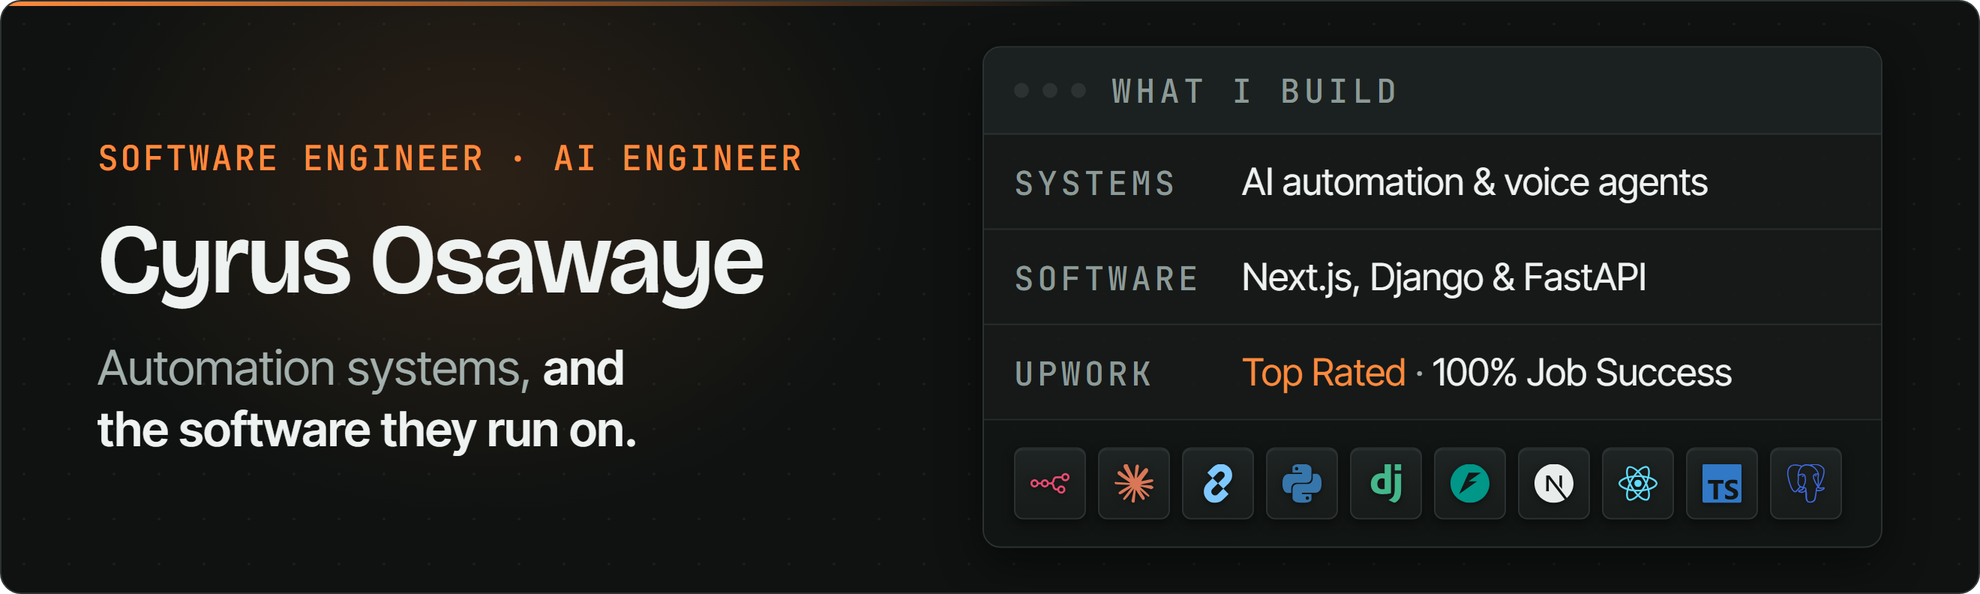
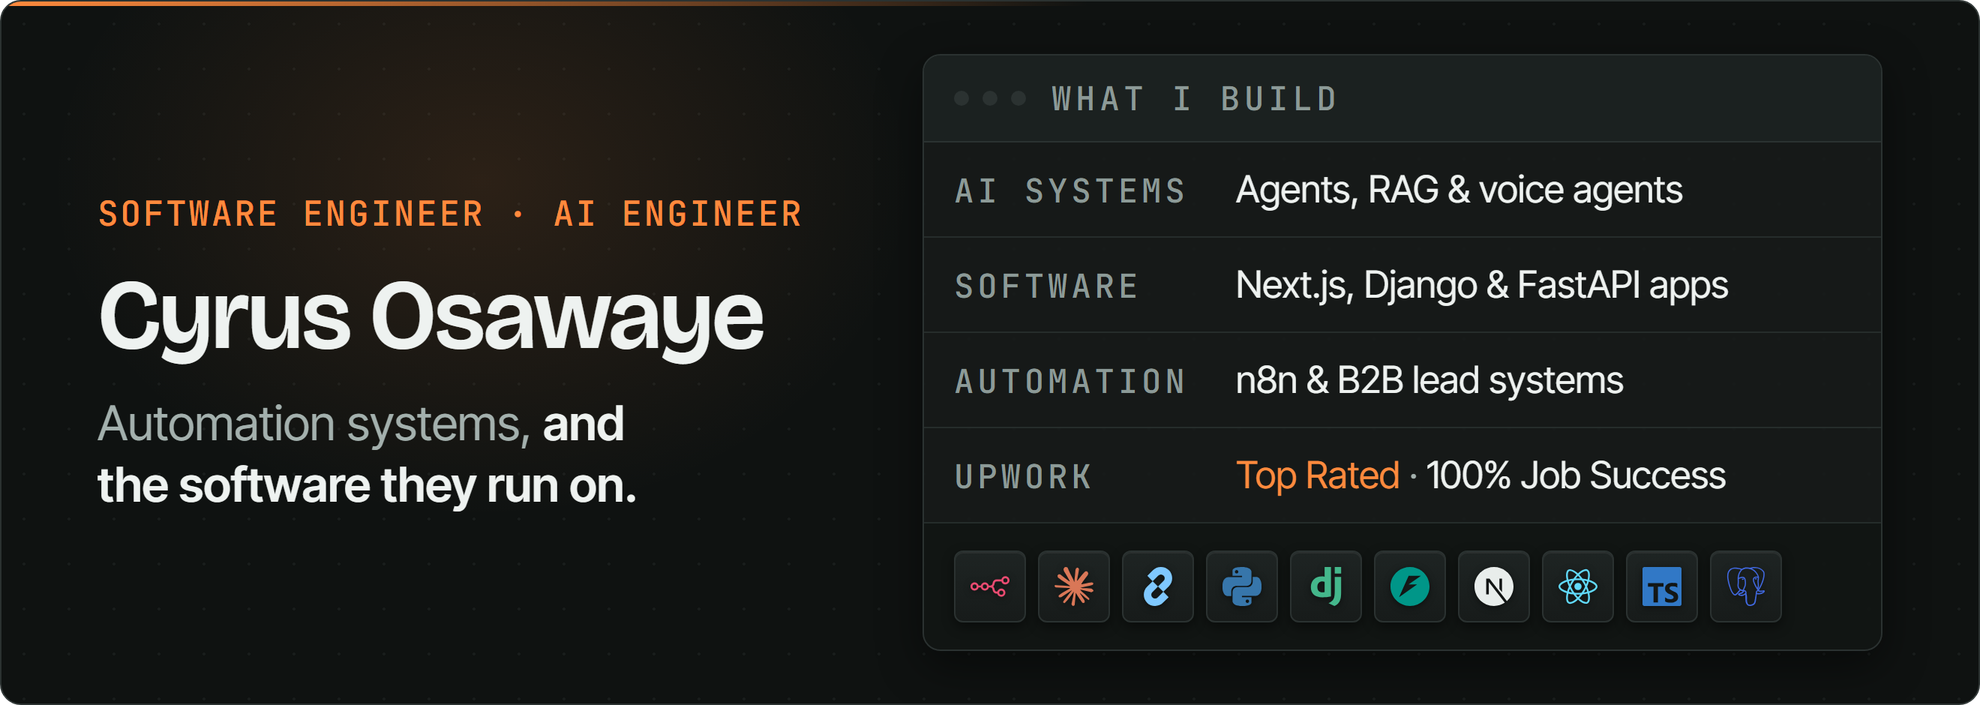
Show the full range of work, not just automation and voice
The banner panel and the typing line both led with "AI automation & voice
agents", which undersold the work. The panel now has four rows - AI systems,
software, automation and B2B lead systems, plus Upwork - and About gains a
short list of the five lanes, each linked to the system that proves it.

OREE is described as "I built the backend" rather than as a job title.

diff --git a/README.md b/README.md
@@ -3,8 +3,8 @@
 
   Copy rules: every number comes from the portfolio's lib/projects.ts and
   lib/site.ts, which record the source of each one - do not add a figure that
-  is not there. No years of experience. On OREE the role is "backend lead".
-  No client names.
+  is not there. No years of experience. On OREE say "I built the backend"
+  (or "backend lead") - never "my company" or "CTO". No client names.
 
   Every portfolio link is in the reference block at the bottom, so a domain
   change is one edit. The banner is generated by portfolio/brand/github_banner.py.
@@ -12,12 +12,12 @@
   .github/workflows/profile-graphics.yml and published to the `output` branch.
 -->
 
-[![Cyrus Osawaye, software engineer and AI engineer. Automation systems, and the software they run on. Systems: AI automation and voice agents. Software: Next.js, Django and FastAPI. Upwork: Top Rated, 100% Job Success.](assets/banner.png)][site]
+[![Cyrus Osawaye, software engineer and AI engineer. Automation systems, and the software they run on. AI systems: agents, RAG and voice agents. Software: Next.js, Django and FastAPI apps. Automation: n8n and B2B lead systems. Upwork: Top Rated, 100% Job Success.](assets/banner.png)][site]
 
 <div align="center">
   <picture>
-    <source media="(prefers-color-scheme: dark)" srcset="https://readme-typing-svg.demolab.com?font=JetBrains+Mono&amp;weight=500&amp;size=18&amp;duration=2800&amp;pause=1000&amp;color=FF8A3D&amp;center=true&amp;vCenter=true&amp;width=700&amp;height=34&amp;lines=I+build+AI+automation%2C+voice+agents+and+the+apps+they+run+on;Voice+agent+live+in+production%3A+2%2C109+ms+median+turn;Backend+lead+on+OREE%3A+~180%2C000+lines+of+code;17+automation+systems%2C+831+nodes%2C+8+with+error+handling">
-    <img alt="I build AI automation, voice agents and the apps they run on." src="https://readme-typing-svg.demolab.com?font=JetBrains+Mono&amp;weight=500&amp;size=18&amp;duration=2800&amp;pause=1000&amp;color=B8480C&amp;center=true&amp;vCenter=true&amp;width=700&amp;height=34&amp;lines=I+build+AI+automation%2C+voice+agents+and+the+apps+they+run+on;Voice+agent+live+in+production%3A+2%2C109+ms+median+turn;Backend+lead+on+OREE%3A+~180%2C000+lines+of+code;17+automation+systems%2C+831+nodes%2C+8+with+error+handling">
+    <source media="(prefers-color-scheme: dark)" srcset="https://readme-typing-svg.demolab.com?font=JetBrains+Mono&amp;weight=500&amp;size=18&amp;duration=2800&amp;pause=1000&amp;color=FF8A3D&amp;center=true&amp;vCenter=true&amp;width=700&amp;height=34&amp;lines=I+build+AI+systems%2C+full-stack+software+and+automation;B2B+lead+systems%3A+research%2C+scoring+and+outreach;Voice+agent+live+in+production%3A+2%2C109+ms+median+turn;Built+the+backend+of+OREE%2C+a+~180k-line+AI+SaaS">
+    <img alt="I build AI systems, full-stack software and automation." src="https://readme-typing-svg.demolab.com?font=JetBrains+Mono&amp;weight=500&amp;size=18&amp;duration=2800&amp;pause=1000&amp;color=B8480C&amp;center=true&amp;vCenter=true&amp;width=700&amp;height=34&amp;lines=I+build+AI+systems%2C+full-stack+software+and+automation;B2B+lead+systems%3A+research%2C+scoring+and+outreach;Voice+agent+live+in+production%3A+2%2C109+ms+median+turn;Built+the+backend+of+OREE%2C+a+~180k-line+AI+SaaS">
   </picture>
 </div>
 
@@ -25,13 +25,19 @@
 
 [![Portfolio](https://img.shields.io/badge/Portfolio-ff8a3d?style=for-the-badge&logo=googlechrome&logoColor=white)][site]
 [![Upwork: Top Rated, 100% Job Success](https://img.shields.io/badge/Upwork-Top_Rated_%C2%B7_100%25_Job_Success-14a800?style=for-the-badge&logo=upwork&logoColor=white&labelColor=171b1a)][upwork]
-[![Backend lead on OREE](https://img.shields.io/badge/Backend_lead-OREE-ff8a3d?style=for-the-badge&labelColor=171b1a)][oree]
+[![I built the backend of OREE](https://img.shields.io/badge/Built_the_backend-OREE-ff8a3d?style=for-the-badge&labelColor=171b1a)][oree]
 
 </div>
 
 ## About
 
 I am a software engineer who builds AI systems. Most automation people cannot build the application; most developers do not do automation. I ship both - Django and Next.js applications on one side, n8n pipelines and voice agents on the other - and the systems below are the intersection.
+
+- **AI systems:** agents, RAG and MCP tools ([Axion-Code][axion], [code review agent][cra], [two RAG stacks][card-rag])
+- **Software:** full-stack Next.js, Django and FastAPI apps ([OREE][oree], [PayLink][card-paylink], [AspireBridge][card-aspire], [Chemoventry][card-chemo])
+- **Automation:** n8n pipelines and integrations (17 systems, 831 nodes)
+- **Voice agents:** [live in production][card-voice], 2,109 ms median turn
+- **B2B lead systems:** lead research, scoring and outreach ([OREE][oree], [ICP-tiered outreach][card-icp])
 
 > Most automations fail quietly. The run finishes green and nothing actually happened. I build the check that catches that, and I document the system on the canvas so your team can maintain it without me.
 
@@ -43,7 +49,7 @@ I am a software engineer who builds AI systems. Most automation people cannot bu
 
 ### OREE
 
-**Live at [oreeai.com][oree]** · AI sales co-pilot · backend lead
+**Live at [oreeai.com][oree]** · AI sales co-pilot · I built the backend
 
 [![OREE, the AI SDR platform I built the backend for: an active-leads rail, signal scores for LinkedIn activity, company match and intent, an AI-drafted email at 72% personalisation, and an approvals tab.](assets/oree.png)][oree]
 
@@ -208,6 +214,7 @@ $ axion -p "Find and fix the bug in auth.py"
 [site]: https://osawayecyrus.vercel.app
 [work]: https://osawayecyrus.vercel.app/#work
 [contact]: https://osawayecyrus.vercel.app/#contact
+[card-voice]: https://osawayecyrus.vercel.app/#voice-booking-agent
 [card-pipeline]: https://osawayecyrus.vercel.app/#content-pipeline
 [card-research]: https://osawayecyrus.vercel.app/#market-research-pipeline
 [card-whatsapp]: https://osawayecyrus.vercel.app/#whatsapp-booking-agent
